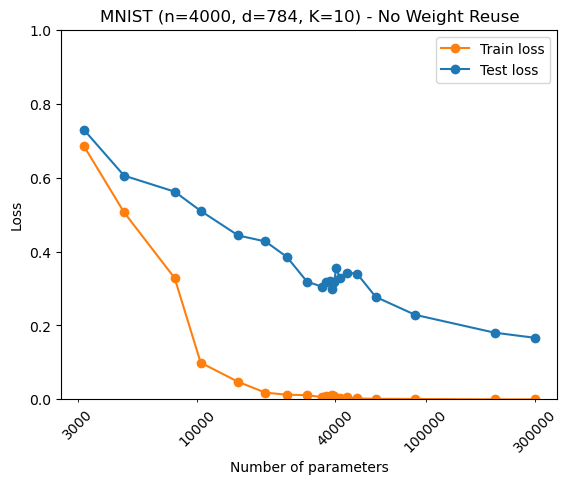
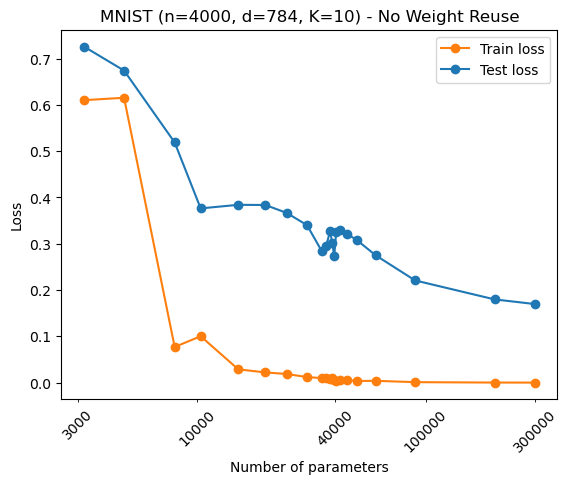
Update figures and README relating to new results

diff --git a/README.md b/README.md
@@ -16,10 +16,6 @@
 
 The results shown above are both from a single run of the experiment. To be updated later to show the average of training each model 5 times as in Belkin et al [[1]](#1). 
 
-Currently, results are similar for the no weight reuse run, however the double descent is not observed anywhere near as clearly as in the original experiment for the runs with the weight reuse scheme.
-
-As of now, it is possible that these differences may be due to a bug or oversight in my implementation. Particularly as <a href="https://github.com/SongweiGe/double-descent-pytorch">another reproduction</a> by <a href="https://github.com/SongweiGe">*SongweiGe*</a> managed to obtain results which more closely resembled Belkin et al [[1]](#1). Further questions arise from lacking details of the original experiment with regards to choice of activation function, learning rate, and batch sizes.
-
 -----
 
 ## Setup/Installation
